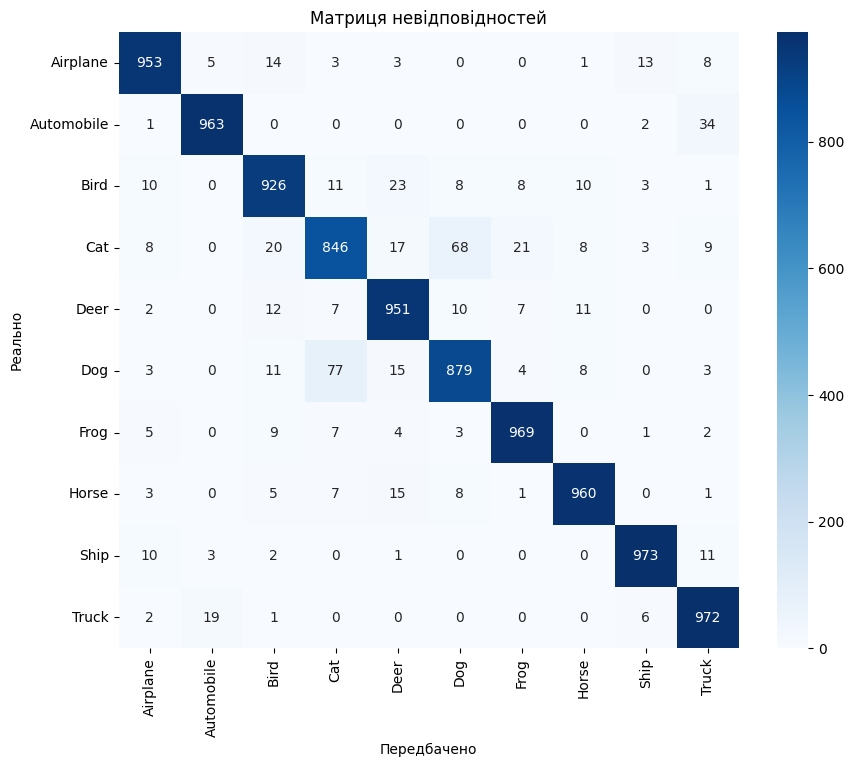
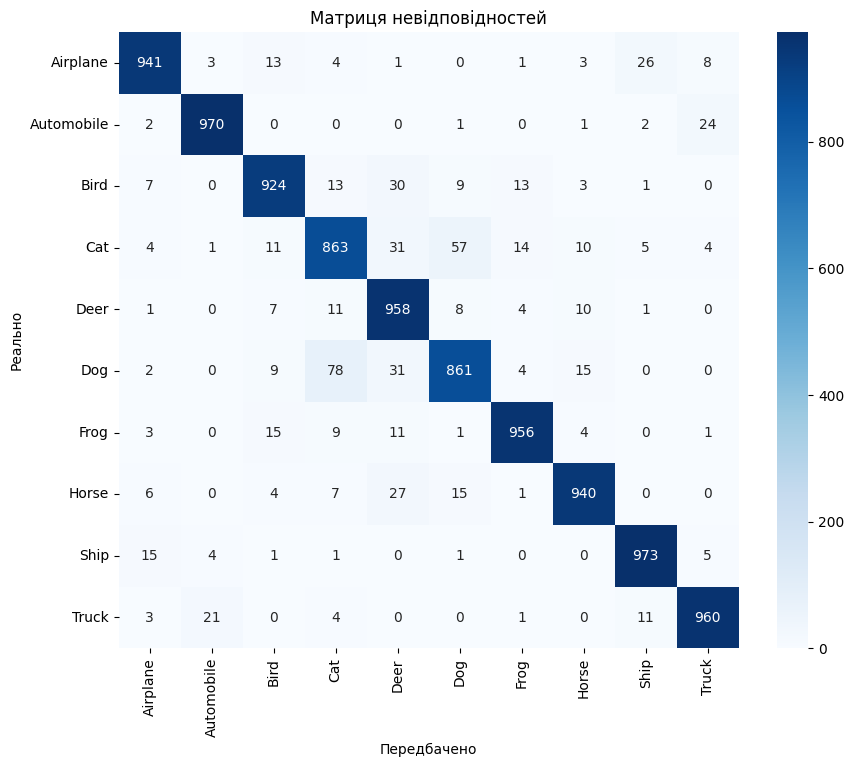
add decr model3

diff --git a/README.md b/README.md
@@ -2,13 +2,13 @@
   <img src="readme_img/logo.png" style="width: 400px;" alt="Logo">
 </div>
 
-# Вебзастосунок <span style="color:purple">InfinityVision</span> класифікує завантажені в нього зображення за допомогою Convolutional Neural Network.
+# Вебзастосунок *InfinityVision*, розроблений командою *Infinity*, класифікує завантажені в нього зображення за допомогою *Convolutional Neural Network*.
 # Розроблений на базі фреймворку [Django](https://www.djangoproject.com/)
-# Використовується модель "model_2_finetuned.h5".
+# Модель "model_3_finetuned.h5", що класифікує зображення, натренована на датасеті [CIFAR-10](https://www.kaggle.com/c/cifar-10).
 
-## Model_2_finetuned
+## Model_3_finetuned
 
-В моделі "model_2_finetuned.h5" використаний підхід донавчання (Fine-tuning) на попередньо навченій моделі "model_2_vgg16.h5":
+В моделі "model_3_finetuned.h5" використаний підхід донавчання (Fine-tuning) на попередньо навченій моделі "model_3_vgg16.h5":
 
 <div style="text-align: left;">
   <img src="readme_img/acc_compare.png" style="width: 900px;" alt="Acc_Compare">
@@ -22,7 +22,7 @@
 
 ![accurasy_finetuned.png](readme_img/accurasy_finetuned.png)
 
-### Історія тренування "model_2_finetuned.h5":
+### Історія тренування "model_3_finetuned.h5":
 
 <div style="text-align: left;">
   <img src="readme_img/acc_loss_finetuned.png" style="width: 900px;" alt="Acc_Loss_finetuned">
@@ -35,20 +35,13 @@
 </div>
 
 
-## Model_2_vgg16
-
-Основна модель "model_2_vgg16"
+## Основна модель Model_3_vgg16
 
 ### Гіперпараметри:
-* img_size: Встановлює розмір зображень у 56x56 пікселів. CIFAR-10 спочатку має розмір зображень 32x32, тому вони збільшуються до 56x56.
+* img_size: Встановлює розмір зображень у 128x128 пікселів.
 * num_classes: Кількість класів для класифікації (10 класів у CIFAR-10).
-* batch_size: Розмір батчу під час навчання (128).
-* epochs: Кількість епох для навчання (10).
-
-![GP.png](readme_img/GP.png)
-
-### Гіперпараметри для аугментації зображень:
-* rotation_range, width_shift_range, height_shift_range, shear_range, zoom_range, horizontal_flip, fill_mode
+* batch_size: Розмір батчу під час навчання (512).
+* epochs: Кількість епох для навчання (5).
 
 ### Створення базової моделі VGG16:
 * VGG16: Використовується попередньо навчена модель VGG16 (без верхніх шарів), яка завантажує попередньо навчені ваги з ImageNet.
@@ -69,11 +62,21 @@
 ### EarlyStopping колбек:
 * EarlyStopping: Застосовується для зупинки навчання, якщо показник валідації не покращується протягом заданої кількості епох (5), з автоматичним відновленням найкращих ваг.
 
-## Модель VGG16 загалом містить 21 шар:
+## Модель VGG16 загалом містить 23 шари:
+
+<div style="text-align: left;">
+  <img src="readme_img/model.jpg" style="width: 700px;" alt="Summ">
+</div>
+
+### Базові
+* 1 вхідний шар "input_2"
 * 13 згорткових шарів.
-* 3 шари підвибірки (Max Pooling), по одному після кожного з блоків згорткових шарів.
-* 3 повнозв’язних (Dense) шари: останні шари, які зазвичай використовуються для класифікації (у класичній VGG16 архітектурі). Однак, у цьому коді вони замінені на інші шари.
-* 2 шари активації: для останнього вихідного шару використовується Softmax
+* 5 шари підвибірки (Max Pooling), по одному після кожного з блоків згорткових шарів.
+### Класифікаційна частина
+* flatten_1: Шар Flatten, який розплющує тривимірний тензор у вектор розміром 8192 (4x4x512).
+* dense_2: Повнозв'язний шар (Dense) з 256 нейронами та активацією ReLU.
+* dropout_1: Шар Dropout з коефіцієнтом 0.5, який випадково вимикає половину нейронів під час кожної ітерації навчання.
+* dense_3: Вихідний повнозв'язний шар (Dense) з 10 нейронами (по одному для кожного класу CIFAR-10) і активацією softmax для передбачення ймовірності кожного класу.
 
 <div style="text-align: left;">
   <img src="readme_img/summ.png" style="width: 550px;" alt="Summ">
